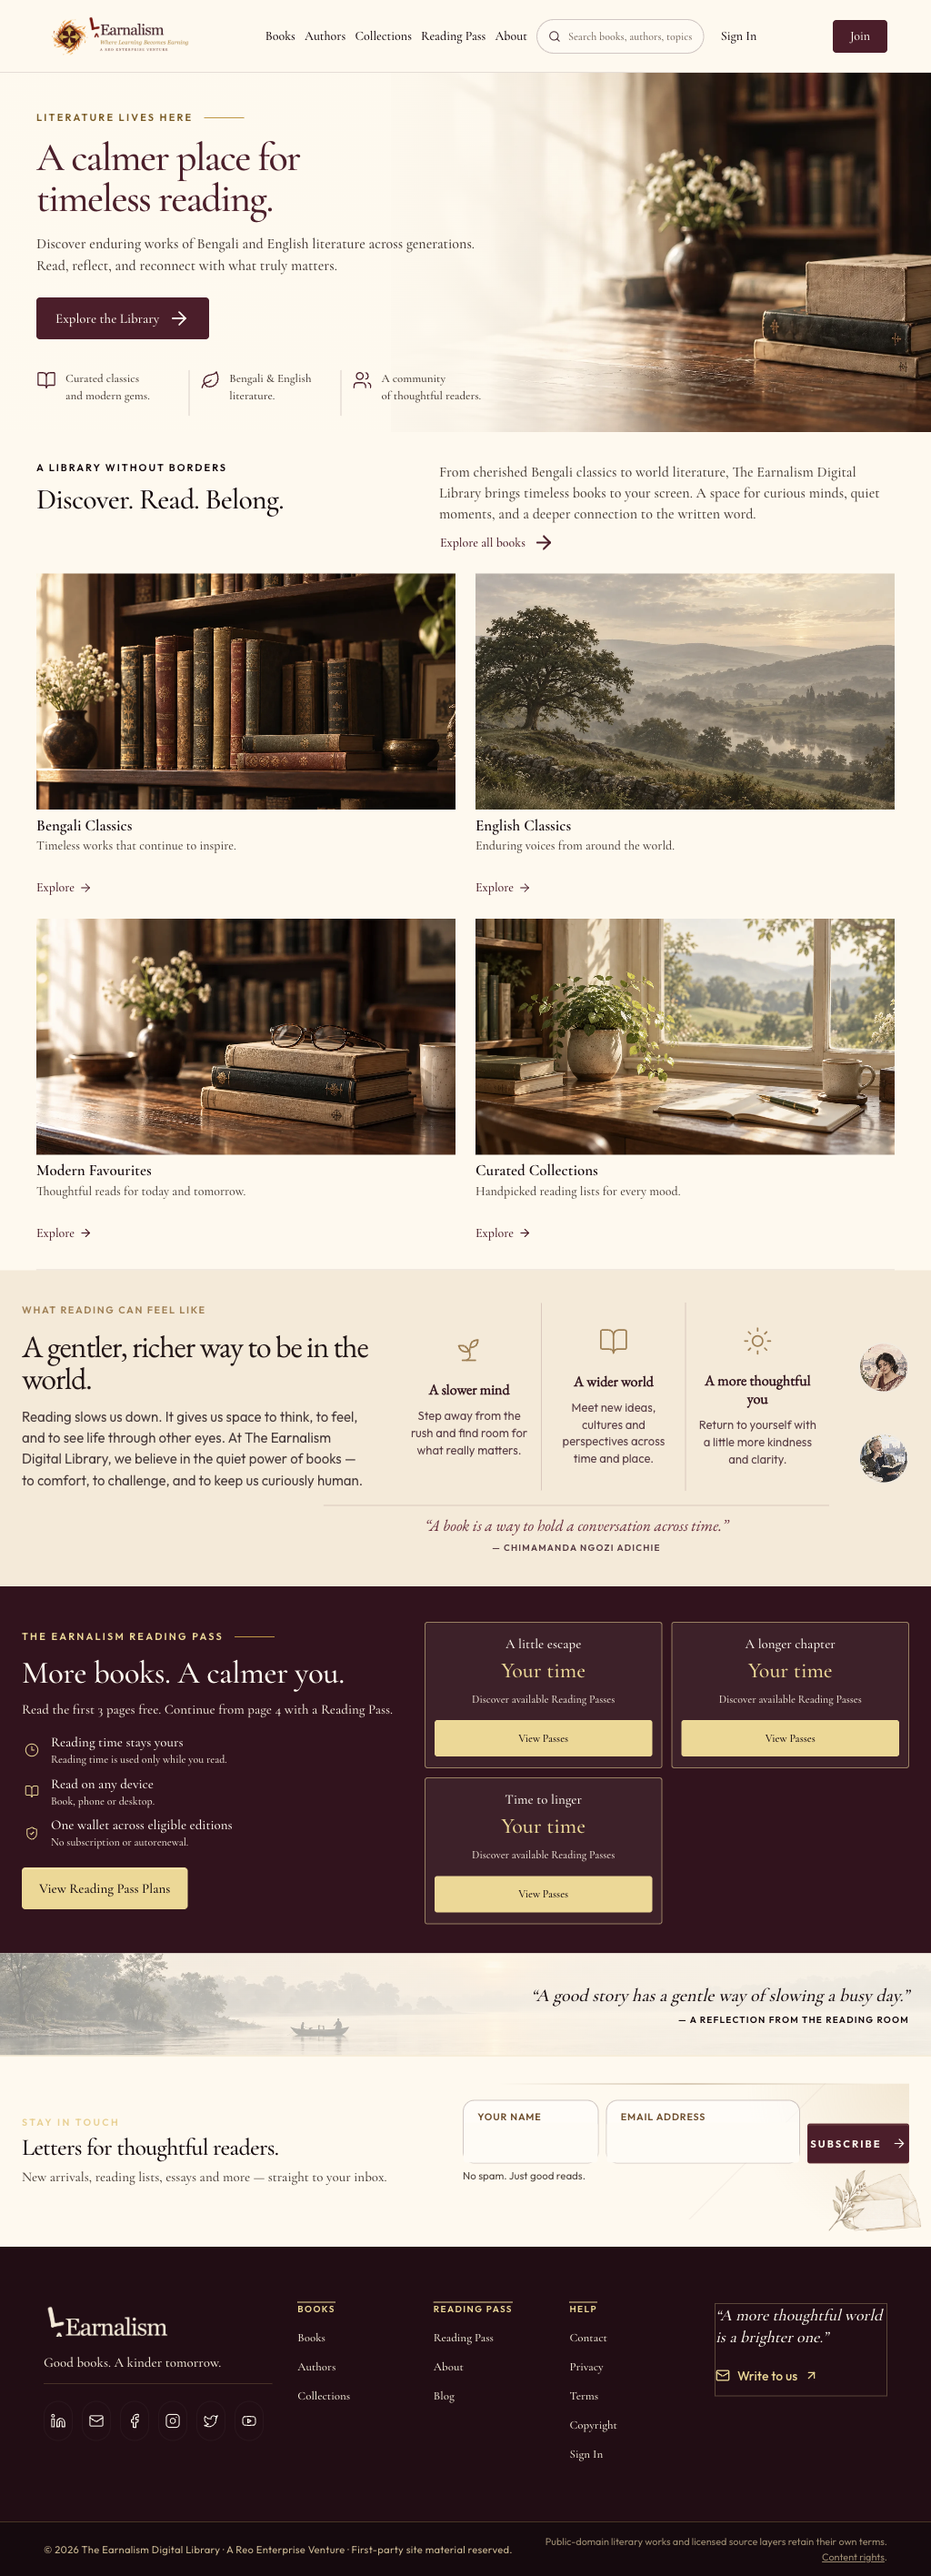
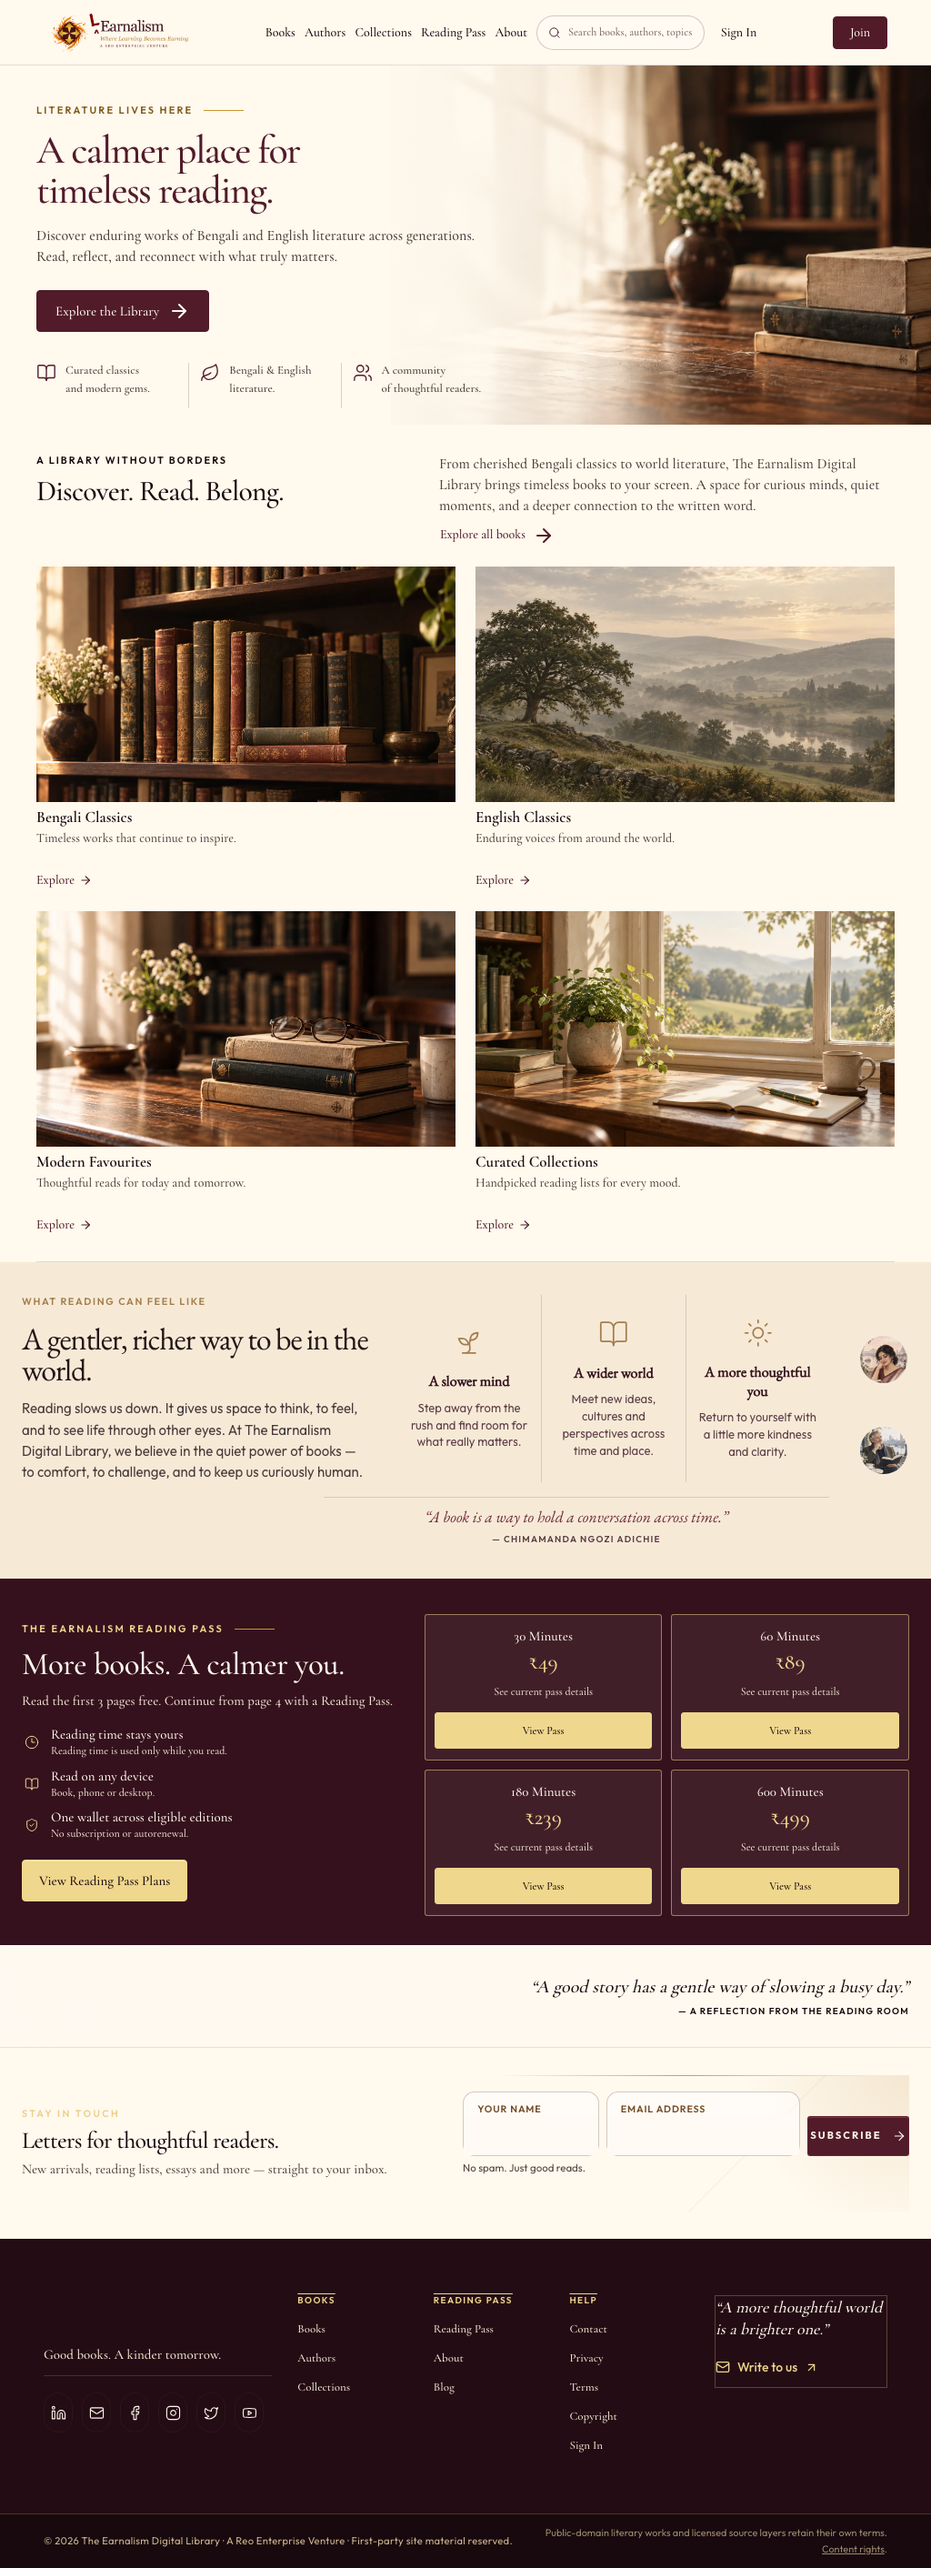
fix(home): align Option B gates and mobile review geometry

diff --git a/regression/modules/14-ux-conversion-static.test.js b/regression/modules/14-ux-conversion-static.test.js
@@ -220,12 +220,14 @@ describe("UX conversion static signals", () => {
   ].join("\n");
 
   test("homepage exposes approved bilingual library positioning and release-truth CTAs", () => {
-    // The approved Option B homepage is editorial and locally rendered. Its
-    // only live home-surface request is optional, release-safe listening data.
-    expect(home).toContain("fetchHomeListening");
+    // The approved Option B homepage is editorial and has no audiobook CTA or
+    // audio fetch until its layout includes an explicitly release-safe surface.
+    expect(home).not.toContain("fetchHomeListening");
     expect(home).not.toContain("fetchHomeHero");
     expect(homeSurfaces).toContain('fetchPublicSurface(`/home/listening?limit=${boundedLimit}`');
     expect(home).toContain("<ReferenceHomeSurface");
+    expect(home).not.toContain("Listen Now");
+    expect(home).not.toContain("Play audiobook");
     expect(editorialHomeSurface).toContain("A calmer place for<br />timeless reading.");
     expect(editorialHomeSurface).toContain('<h1 id="reference-home-title">A calmer place for<br />timeless reading.</h1>');
     expect(editorialHomeSurface).toContain("Explore the Library");
@@ -235,9 +237,9 @@ describe("UX conversion static signals", () => {
     expect(editorialHomeSurface).toContain("Modern Favourites");
     expect(editorialHomeSurface).toContain("Curated Collections");
     expect(editorialHomeSurface).toContain("<ReaderPerspectives />");
-    expect(editorialHomeSurface).toContain('PUBLIC_AUDIO_EXPOSURE_ENABLED && Array.isArray(listeningItems)');
-    expect(editorialHomeSurface).toContain(".filter((book) => audiobookReleaseState(book).releaseApproved)");
-    expect(editorialHomeSurface).toContain("{listeningBooks.length > 0 && <section");
+    expect(editorialHomeSurface).not.toContain("listeningItems");
+    expect(editorialHomeSurface).not.toContain("Listen Now");
+    expect(library).toContain("audiobookReleaseState(book).releaseApproved");
     expect(referencePublicPages).toContain("Enter the Library");
     expect(referencePublicPages).toContain("Discover listening");
     expect(referencePublicPages).toContain("Timeless Bengali and English classics.");
@@ -1225,7 +1227,9 @@ describe("UX conversion static signals", () => {
   });
 
   test("Bengali and Gothic discovery shelves preserve reader-safe browse paths", () => {
-    expect(home).toContain("<HomeShelfArchitecture");
+    expect(home).not.toContain("<HomeShelfArchitecture");
+    expect(editorialHomeSurface).toContain("Bengali Classics");
+    expect(editorialHomeSurface).toContain("Curated Collections");
     expect(homeShelfArchitecture).toContain("<CuratedShelfCollage");
     expect(homeCurationConfig).toContain("Bengali Life & Legacy");
     expect(homeCurationConfig).toContain("Gothic & the Uncanny");
@@ -1289,7 +1293,8 @@ describe("UX conversion static signals", () => {
   });
 
   test("future pipeline books do not show live CTAs", () => {
-    expect(home).toContain("<HomeShelfArchitecture");
+    expect(home).not.toContain("<HomeShelfArchitecture");
+    expect(editorialHomeSurface).not.toContain("Listen Now");
     expect(homeShelfArchitecture).toContain("<CuratedShelfCollage");
     expect(curatedShelfCollage).toContain("Browse the complete library");
     expect(curatedShelfCollage).not.toContain("Notify Me");

diff --git a/frontend/src/pages/HomeOptionB.css b/frontend/src/pages/HomeOptionB.css
@@ -16,6 +16,13 @@
   -webkit-backdrop-filter: none;
   backdrop-filter: none;
 }
+@media (max-width: 1279px) {
+  .layout--homepage-option-b .premium-site-header--reference-home {
+    --site-header-height: 72px;
+    height: 72px;
+    min-height: 72px;
+  }
+}
 .layout--homepage-option-b .premium-site-header--reference-home .premium-header-inner {
   width: min(calc(100% - 48px), 1360px);
   max-width: 1360px;
